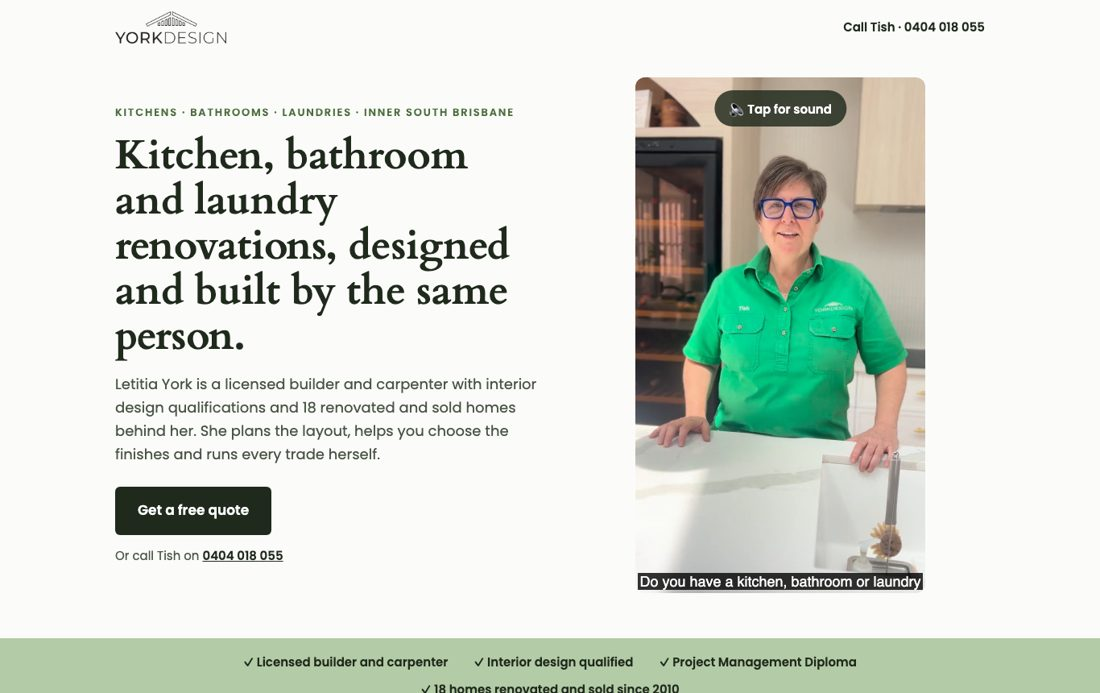
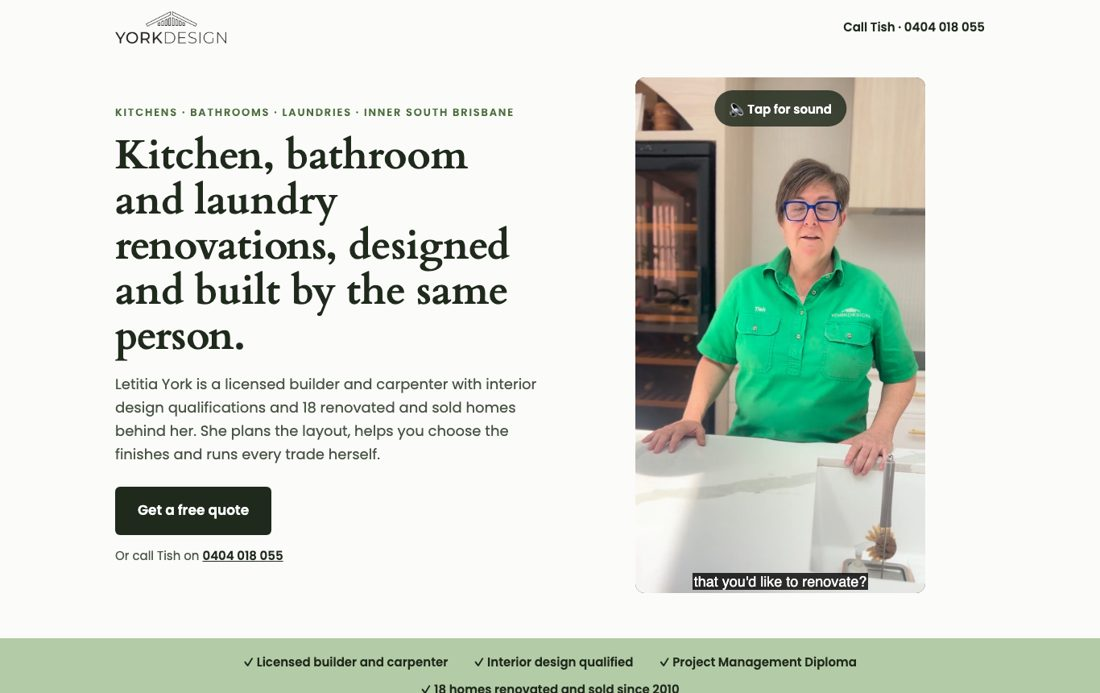
York Design approval page: Tish's edit to post D1

Changed region(s): [[0.5564, 0.1212, 0.8655, 0.8485], [0.7109, 0.7576, 0.7418, 0.7879]]

diff --git a/clients/york-design/index.html b/clients/york-design/index.html
@@ -129,7 +129,7 @@ footer{margin-top:64px;padding-top:18px;border-top:1px solid var(--line);color:v
 <section id="posts"><h2>D · First nine posts</h2>
 <p class="lead">Written in your voice, so read them as if you were posting them. They go up in this order, before the ads start, so anyone who clicks through to your profile sees your work.</p>
 <div class="posts"><figure class="post" id="d1"><img src="/clients/york-design/i/post-01.jpg" alt="Post 1" width="640" height="800" loading="lazy">
-<figcaption><span class="code">D1</span><p>Hi, I&#x27;m Tish, and this is York Design.</p><p>I started out as a teacher. In 2010 I renovated and flipped my first house, and over the next ten years I did 18 of them. Then I made it official: carpentry licence, Project Management Diploma and interior design qualifications.</p><p>These days I renovate other people&#x27;s Queenslanders in Brisbane&#x27;s inner south. Kitchens, bathrooms, laundries and decks. I design the job with you and I&#x27;m on site building it.</p><p>This page is where I&#x27;ll share the jobs as they happen.</p><p>#queenslander #brisbanerenovation #yorkdesign #duttonpark #moorooka</p></figcaption></figure><figure class="post" id="d2"><img src="/clients/york-design/i/post-02.jpg" alt="Post 2" width="640" height="800" loading="lazy">
+<figcaption><span class="code">D1</span><p>Hi, I&#x27;m Tish, and this is York Design.</p><p>I started out as a teacher. In 2010 I renovated and flipped my first house, and over the next ten years I did 18 of them. Then I made it official: carpentry and builder&#x27;s licence, Project Management Diploma and interior design study.</p><p>These days I renovate other people&#x27;s Queenslanders in Brisbane&#x27;s inner south. Kitchens, bathrooms, laundries and decks. I design the job with you and I&#x27;m on site building it.</p><p>This page is where I&#x27;ll share the jobs as they happen.</p><p>#queenslander #brisbanerenovation #yorkdesign #duttonpark #moorooka</p></figcaption></figure><figure class="post" id="d2"><img src="/clients/york-design/i/post-02.jpg" alt="Post 2" width="640" height="800" loading="lazy">
 <figcaption><span class="code">D2</span><p>The Tillot kitchen, Dutton Park.</p><p>The house was built in 1885. Every part of it was repaired, restored or replaced, and the post-war add-ons came off first.</p><p>The kitchen got a long stone island, timber stools and an arched wine wall. The skylight does most of the work during the day.</p><p>#queenslander #kitchenrenovation #brisbanekitchens #duttonpark #yorkdesign</p></figcaption></figure><figure class="post" id="d3"><img src="/clients/york-design/i/post-03.jpg" alt="Post 3" width="640" height="800" loading="lazy">
 <figcaption><span class="code">D3</span><p>One of the bathrooms at Tillot, Dutton Park.</p><p>Fluted glass, a timber vanity and two pink basins. A bathroom like this needs a plumber, electrician, waterproofer, tiler and carpenter, in the right order. I book and sequence all of them, so my clients only ever have one person to call.</p><p>#bathroomrenovation #brisbanebathrooms #queenslander #yorkdesign</p></figcaption></figure><figure class="post" id="d4"><img src="/clients/york-design/i/post-04.jpg" alt="Post 4" width="640" height="800" loading="lazy">
 <figcaption><span class="code">D4</span><p>Philip, Hawthorne.</p><p>This 2 bed, 1 bath house became a 3 bed, 2 bath house without growing its footprint. Part of a very large external deck was turned into internal space for this new kitchen.</p><p>Sometimes the room you need is already there.</p><p>#hawthorne #kitchenrenovation #brisbanerenovation #yorkdesign</p></figcaption></figure><figure class="post" id="d5"><img src="/clients/york-design/i/post-05.jpg" alt="Post 5" width="640" height="800" loading="lazy">
